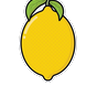
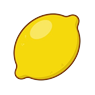
Refactor code structure for improved readability and maintainability

Changed region(s): [[0.1263, 0.0, 0.8632, 0.8632], [0.3158, 0.2105, 0.5474, 0.4211]]

diff --git a/src/data/FruitHulls.ts b/src/data/FruitHulls.ts
@@ -9,9 +9,9 @@
  * (poly-decomp est installé et câblé dans main.ts).
  */
 export const FRUIT_HULLS: Record<number, readonly [number, number][]> = {
+  3: [[-33.5, 4.36], [-30.81, -5.84], [-25.81, -15.23], [-18.69, -23.06], [-10.24, -29.47], [-0.42, -33.27], [10.18, -34.01], [20.37, -31.39], [28.78, -25.58], [31.49, -15.46], [31.87, -4.87], [30.19, 5.63], [25.07, 14.76], [17.75, 22.47], [9.34, 28.82], [-0.74, 32.14], [-11.34, 32.3], [-21.93, 31.28], [-30.11, 25.24], [-32.69, 14.93]],
   1: [[-21.48, -2.5], [-19.56, -8.72], [-14.82, -13.24], [-8.75, -15.77], [-2.39, -17.58], [4.16, -18.58], [10.68, -17.88], [16.42, -14.66], [20.39, -9.42], [21.1, -2.85], [20.49, 3.74], [18.72, 10.05], [14.86, 15.36], [9.44, 19.03], [3.24, 21.35], [-3.23, 21.65], [-9.43, 19.49], [-14.66, 15.45], [-18.6, 10.17], [-21.19, 4.11]],
   2: [[-28.72, -0.28], [-28.5, -8.99], [-26.41, -17.19], [-18.49, -20.2], [-9.84, -21.23], [-1.14, -21.32], [7.57, -21.14], [16.28, -20.94], [24.48, -18.21], [28.09, -11.28], [27.13, -2.61], [24.37, 5.55], [20.08, 13.14], [14.98, 20.18], [8.08, 25.34], [0.2, 28.73], [-7.74, 25.5], [-15.33, 21.21], [-22.01, 15.78], [-25.48, 7.81]],
-  3: [[-27.1, 2.97], [-26.73, -6.98], [-25.0, -16.75], [-20.48, -25.54], [-14.46, -33.47], [-6.93, -39.99], [2.61, -41.27], [11.37, -36.83], [18.94, -30.44], [23.82, -21.77], [27.24, -12.45], [27.09, -2.49], [25.64, 7.27], [20.93, 16.0], [14.54, 23.56], [6.59, 29.56], [-2.39, 32.25], [-10.7, 26.78], [-18.1, 20.18], [-24.32, 12.48]],
   4: [[-33.83, 4.64], [-31.87, -6.02], [-27.69, -16.02], [-21.52, -24.98], [-14.21, -33.01], [-4.82, -37.75], [6.01, -36.98], [14.96, -30.99], [21.7, -22.45], [27.94, -13.55], [32.68, -3.79], [33.01, 7.01], [30.16, 17.48], [22.92, 25.48], [14.23, 31.95], [3.82, 34.64], [-7.06, 34.45], [-17.12, 30.54], [-25.69, 23.88], [-32.23, 15.22]],
   5: [[-43.54, 6.1], [-42.17, -7.45], [-38.26, -20.45], [-30.76, -31.71], [-19.83, -39.65], [-7.17, -44.47], [6.31, -46.1], [19.47, -42.95], [30.64, -35.19], [38.94, -24.55], [40.76, -11.15], [40.92, 2.47], [36.78, 15.3], [30.38, 27.32], [20.27, 36.43], [7.36, 40.38], [-6.18, 40.16], [-19.33, 36.61], [-30.61, 29.19], [-39.5, 18.95]],
   6: [[-46.7, 6.1], [-45.96, -6.85], [-40.43, -18.59], [-32.16, -28.58], [-20.97, -35.04], [-8.18, -36.7], [4.72, -35.83], [16.97, -31.62], [27.54, -24.32], [34.72, -13.65], [36.48, -0.86], [35.67, 12.1], [30.84, 24.08], [22.3, 33.77], [11.25, 40.51], [-1.61, 42.27], [-14.6, 41.93], [-26.67, 37.52], [-36.77, 29.43], [-43.93, 18.69]],

diff --git a/src/systems/MergeManager.ts b/src/systems/MergeManager.ts
@@ -28,6 +28,8 @@ export class MergeManager {
   bestTier = 3;
 
   private pending: PendingMerge[] = [];
+  /** Une fusion à la fois : le fruit résultant doit être entièrement apparu avant d'en lancer une autre. */
+  private busy = false;
 
   private scanTimer!: Phaser.Time.TimerEvent;
 
@@ -116,13 +118,18 @@ export class MergeManager {
     }
   }
 
-  /** À appeler chaque frame : exécute les fusions détectées. */
+  /**
+   * À appeler chaque frame : exécute une fusion à la fois.
+   * Tant que le fruit résultant de la précédente n'est pas entièrement apparu,
+   * les fusions détectées restent en file (pas d'enchaînement instantané).
+   */
   update(): void {
-    if (this.pending.length === 0) return;
-    const jobs = this.pending.splice(0);
-    for (const { a, b } of jobs) {
+    if (this.busy) return;
+    while (this.pending.length > 0) {
+      const { a, b } = this.pending.shift()!;
       if (a.isRemoved || b.isRemoved || a.isMerging || b.isMerging) continue;
       this.doMerge(a, b);
+      return;
     }
   }
 
@@ -133,6 +140,7 @@ export class MergeManager {
     const y = (a.y + b.y) / 2;
     const color = a.def.color;
 
+    this.busy = true;
     a.isMerging = true;
     b.isMerging = true;
     a.removeBody();
@@ -164,6 +172,10 @@ export class MergeManager {
         this.particles.comboBurst(x, y, 8);
         this.screens.flash(0.5, 200);
         this.audio.playMerge(tier + 2);
+        // Pas de nouveau fruit à voir apparaître : file libérée après le flash/burst
+        scene.time.delayedCall(260, () => {
+          this.busy = false;
+        });
       } else {
         const fruit = scene.spawnFruit(tier + 1, x, y);
         // Petit pop vers le haut : la fusion "pousse" le nouveau fruit
@@ -171,6 +183,10 @@ export class MergeManager {
         FruitEffects.spawnPop(scene, fruit);
         fruit.express(FruitExpression.CELEBRATING, 1400);
         this.score.addMerge(tier + 1, comboN, x, y);
+        // File libérée seulement une fois le fruit fusionné entièrement apparu (fin du pop)
+        scene.time.delayedCall(360, () => {
+          this.busy = false;
+        });
       }
       if (comboN >= 2) {
         this.popup.show(comboN);

diff --git a/src/entities/FaceController.ts b/src/entities/FaceController.ts
@@ -102,7 +102,7 @@ export class FaceController {
     }
     this.root.add(cheeks);
 
-    this.setExpression(FruitExpression.IDLE);
+    this.setExpression(FruitExpression.IDLE, true);
 
     // Clignements et regards furtifs aléatoires (auto-reprogrammés)
     this.blinkEvent = scene.time.delayedCall(2000, () => this.scheduleBlink());
@@ -121,9 +121,15 @@ export class FaceController {
     this.glanceEvent = this.scene.time.delayedCall(Phaser.Math.Between(2500, 5500), () => this.scheduleGlance());
   }
 
-  /** Change d'expression (redessine yeux + bouche). Sans effet si identique. */
-  setExpression(expr: FruitExpression): void {
-    if (this.expression === expr) return;
+  /**
+   * Change d'expression (redessine yeux + bouche). Sans effet si identique,
+   * sauf `force` (nécessaire au premier appel du constructeur : `expression`
+   * vaut déjà IDLE par défaut, donc setExpression(IDLE) serait autrement un
+   * no-op et le fruit resterait sans visage tant qu'aucun événement — impact,
+   * fusion... — ne change son expression pour de bon).
+   */
+  setExpression(expr: FruitExpression, force = false): void {
+    if (!force && this.expression === expr) return;
     this.expression = expr;
     const spec = EXPRESSIONS[expr];
     this.drawEye(this.whiteL, this.pupilL, this.specialL, spec);

diff --git a/src/scenes/MenuScene.ts b/src/scenes/MenuScene.ts
@@ -182,9 +182,9 @@ export class MenuScene extends Phaser.Scene {
     // Mascotte pastèque vivante (grosse, au centre)
     const mascotY = 545 * k;
     const mascot = this.add.container(w / 2, mascotY).setDepth(5);
-    const img = this.add.image(0, 0, 'fruit_12').setScale(k * 1.05);
+    const img = this.add.image(0, 0, 'pasteque').setScale(k * 0.505);
     mascot.add(img);
-    this.mascotFace = new FaceController(this, 104, k * 1.05);
+    this.mascotFace = new FaceController(this, 104, k * 1.05, { dy: 0.24, dx: 0, scale: 1, rotation: 0 });
     mascot.add(this.mascotFace.root);
     this.tweens.add({
       targets: mascot,

diff --git a/src/ui/ScoreUI.ts b/src/ui/ScoreUI.ts
@@ -11,10 +11,10 @@ export class ScoreUI {
   constructor(scene: Phaser.Scene) {
     this.scene = scene;
     const k = scene.scale.height / 1280;
-    const x = 16 * k;
-    const y = 40 * k;
+    const y = 54 * k;
     const cardW = Math.min(235 * k, scene.scale.width * 0.34);
     const cardH = 100 * k;
+    const x = scene.scale.width / 2 - cardW / 2;
     const splitX = cardW * 0.62;
 
     const g = scene.add.graphics().setDepth(20);

diff --git a/src/ui/NextFruitUI.ts b/src/ui/NextFruitUI.ts
@@ -10,7 +10,7 @@ export class NextFruitUI {
     const w = scene.scale.width;
     const size = Math.min(100 * k, scene.scale.width * 0.17);
     const x = w - 16 * k;
-    const y = 40 * k;
+    const y = 54 * k;
 
     const g = scene.add.graphics().setDepth(20);
     g.fillStyle(0x000000, 0.15);

diff --git a/src/scenes/GameScene.ts b/src/scenes/GameScene.ts
@@ -568,8 +568,8 @@ export class GameScene extends Phaser.Scene {
     UIHelpers.makeButton(
       this,
       {
-        x: this.scale.width / 2,
-        y: 90 * k,
+        x: 16 * k + 46 * k,
+        y: 104 * k,
         width: 92 * k,
         height: 100 * k,
         label: '❚❚',
